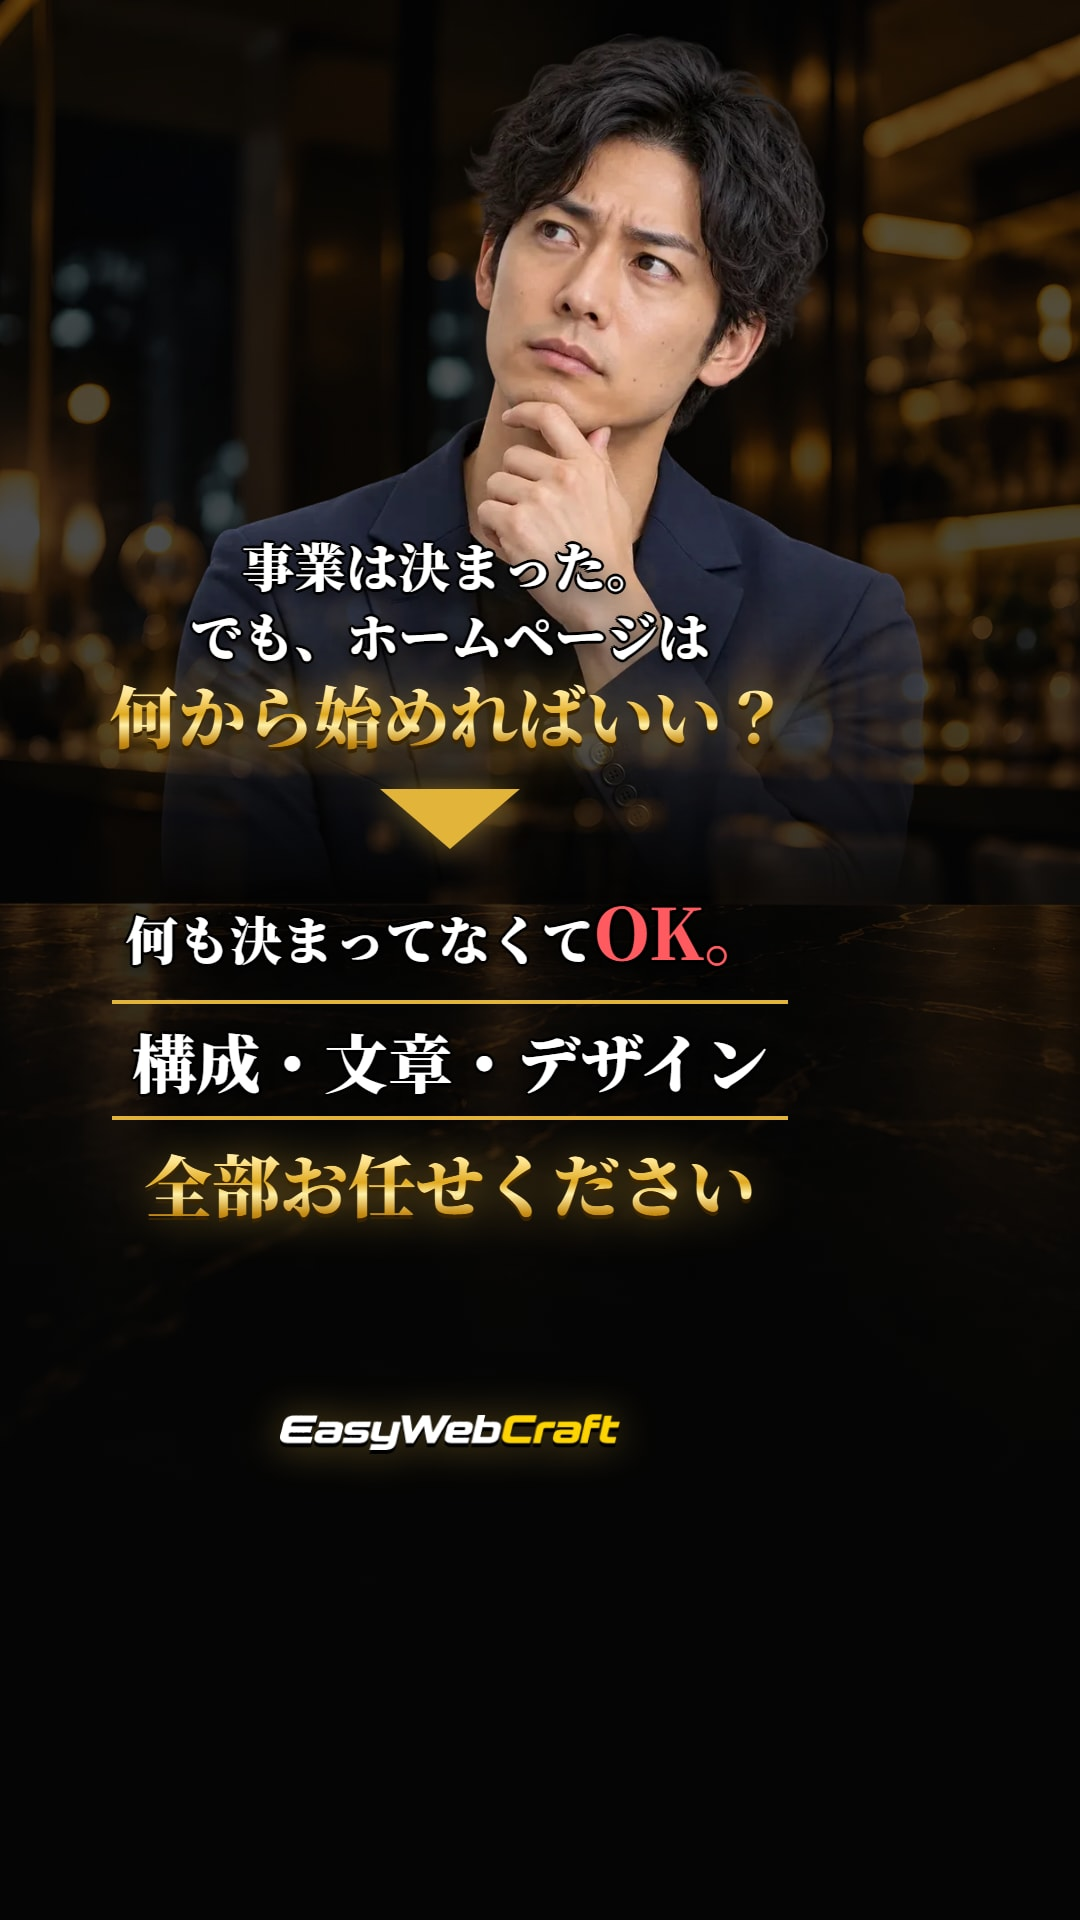
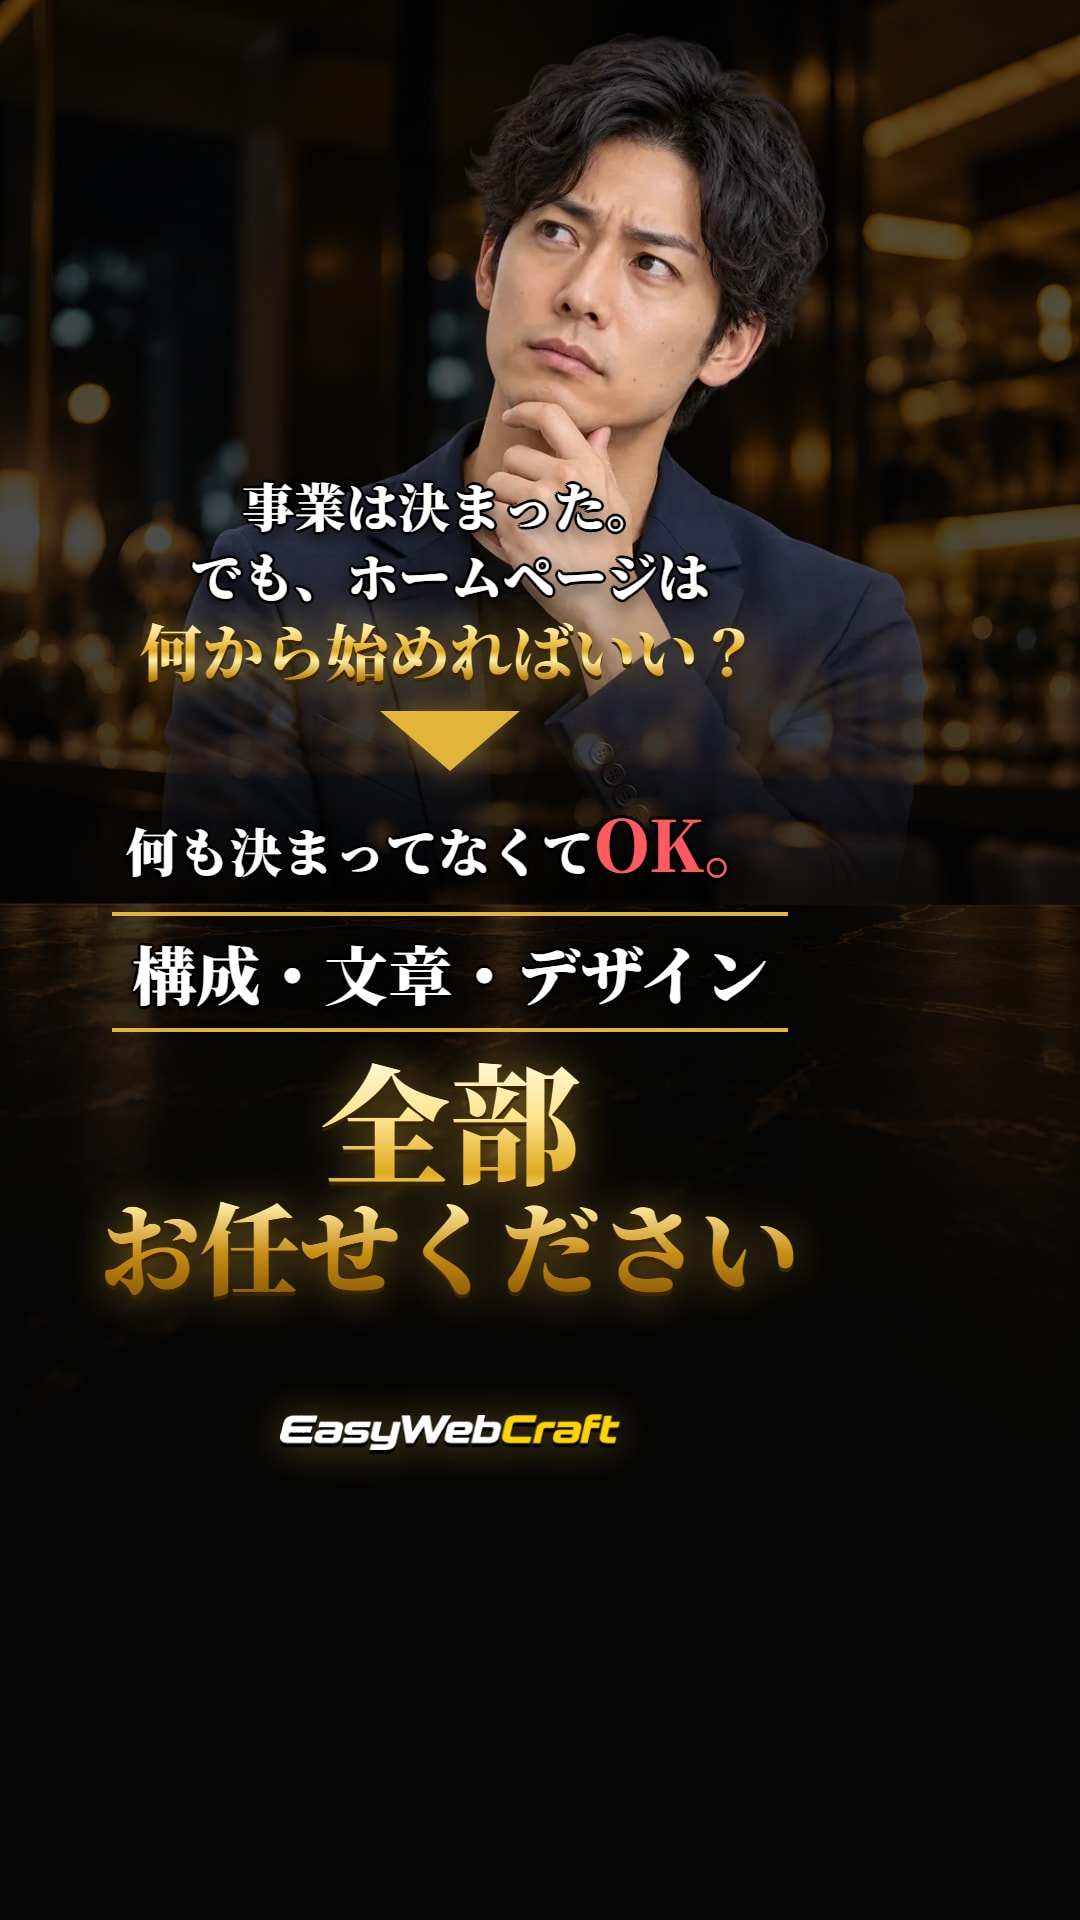
C4：「全部／お任せください」を2行にして大きく
Claude-Session: https://claude.ai/code/session_01G65TiHfa1BUco43NvNDLJF

Changed region(s): [[0.0917, 0.25, 0.7333, 0.6875]]

diff --git a/challenge/index.html b/challenge/index.html
@@ -48,7 +48,7 @@ code{background:var(--bg); padding:0 5px; border-radius:4px; font-size:.88em; wo
     <div class="card"><img src="jpg/c2.jpg?v=10" alt="こんなに安くて本当にちゃんとしたHPができるの？"><div class="no"><b>C2</b>安すぎて不安？</div><span class="tgt">価格に不安がある人</span><span class="star">主力候補</span><p class="cap">起業したばかりの方へ。こんなに安くて本当にちゃんとしたHPができるの？契約前に実物を見せます。HPデザイン案0円。</p></div>
     <div class="card"><img src="jpg/c2b.jpg?v=10" alt="月額5,980円〜 安すぎて、ちょっと不安？"><div class="no"><b>C2-B</b>価格を先に見せる版</div><span class="tgt">価格に不安がある人</span><span class="star">C2とA/Bテスト</span><p class="cap">起業したばかりの方へ。制作費0円・月額5,980円〜。安すぎて、ちょっと不安？だから契約前に実物を見せます。HPデザイン案0円。</p></div>
     <div class="card"><img src="jpg/c3.jpg?v=12" alt="起業した。でも、どこに頼めばいい？"><div class="no"><b>C3</b>どこに頼めばいい？</div><span class="tgt">依頼先で迷っている人</span><span class="star">新規</span><p class="cap">起業した。ホームページも必要。でも、どこに頼めばいい？制作会社？フリーランス？自分で？デザインを見てから決めてください。</p></div>
-    <div class="card"><img src="jpg/c4.jpg?v=14" alt="事業は決まった。でも、ホームページは何から始めればいい？"><div class="no"><b>C4</b>何から始めれば？</div><span class="tgt">HPの知識がない人</span><span class="star">顔出し</span><p class="cap">事業は決まった。でも、ホームページは何から始めればいい？何も決まってなくてOK。構成・文章・デザイン、全部お任せください。</p></div>
+    <div class="card"><img src="jpg/c4.jpg?v=15" alt="事業は決まった。でも、ホームページは何から始めればいい？"><div class="no"><b>C4</b>何から始めれば？</div><span class="tgt">HPの知識がない人</span><span class="star">顔出し</span><p class="cap">事業は決まった。でも、ホームページは何から始めればいい？何も決まってなくてOK。構成・文章・デザイン、全部お任せください。</p></div>
     <div class="card"><img src="jpg/c5.jpg?v=11" alt="起業したばかり。やることだらけでHPまで手が回らない"><div class="no"><b>C5</b>手が回らない</div><span class="tgt">本業が忙しい人</span><span class="star">顔出し</span><p class="cap">起業したばかり。やることだらけでHPまで手が回らない。まとめてお任せください。</p></div>
     <div class="card"><img src="jpg/c6.jpg?v=10" alt="起業したばかりだから、HPに大金はかけられない"><div class="no"><b>C6</b>安心3点セット</div><span class="tgt">比較検討中の人（リターゲティング向き）</span><p class="cap">HPに大金はかけられない。初期費用0円・デザイン案0円・月額5,980円〜（税別）。</p></div>
   </div>

diff --git a/challenge/ads.html b/challenge/ads.html
@@ -164,7 +164,7 @@ body{width:1080px; font-family:"Noto Sans JP",sans-serif; color:#fff; background
 /* 右のアイコン列をもう少し避ける（表示イメージで確認 2026-09-30） */
 .in{left:90px !important; right:270px !important}
 .fine{left:90px !important; right:270px !important}
-#c4 .serif.gold{font-size:68px !important}
+/* (旧) #c4 .serif.gold 68px は c4-q2 / c4-a3 で個別に指定 */
 #c5 .serif.gold{font-size:60px !important}
 #c5 .serif.outline{font-size:58px !important}
 #c3 .serif.red{font-size:58px !important}
@@ -207,6 +207,12 @@ body{width:1080px; font-family:"Noto Sans JP",sans-serif; color:#fff; background
 #c4 .c4-a1 .red{font-size:1.35em}
 #c4 .c4-a2{font-size:64px !important; padding:10px 20px !important; border-width:4px !important}
 #c4 .c4-a3{font-size:80px !important; margin-top:14px !important}
+/* C4：全部お任せくださいを大きく */
+#c4 .in{top:470px !important}
+#c4 .c4-a3{font-size:100px !important; line-height:1.1 !important; white-space:nowrap}
+#c4 .c4-q2{font-size:62px !important}
+#c4 .c4-a3 .big{font-size:1.3em}
+#c4 .g30{height:20px !important}
 </style>
 </head>
 <body>
@@ -298,7 +304,7 @@ body{width:1080px; font-family:"Noto Sans JP",sans-serif; color:#fff; background
     <p class="serif outline c4-a1">何も決まってなくて<span class="red">OK。</span></p>
     <div class="g20"></div>
     <p class="serif outline c4-a2">構成・文章・デザイン</p>
-    <p class="serif gold c4-a3">全部お任せください</p>
+    <p class="serif gold c4-a3"><span class="big">全部</span><br>お任せください</p>
     <div class="sp"></div>
     <img class="logo blogo" src="img/logo-fv.webp" alt="EasyWebCraft">
     <p class="cta">無料でデザイン案を見てみる</p>

diff --git a/challenge/tiktok-view.html b/challenge/tiktok-view.html
@@ -119,7 +119,7 @@ figcaption b{display:inline-block; background:#e3b43a; color:#1a1200; border-rad
 </figure>
 <figure class="ph">
   <div class="scr">
-    <img class="cr" src="jpg/c4.jpg?v=14" alt="何から始めれば？">
+    <img class="cr" src="jpg/c4.jpg?v=15" alt="何から始めれば？">
     <div class="top"><span>フォロー中</span><b>おすすめ</b><i>⌕</i></div>
     <div class="rail">
       <div class="av"><img src="img/logo-fv.webp" alt=""><em>＋</em></div>
